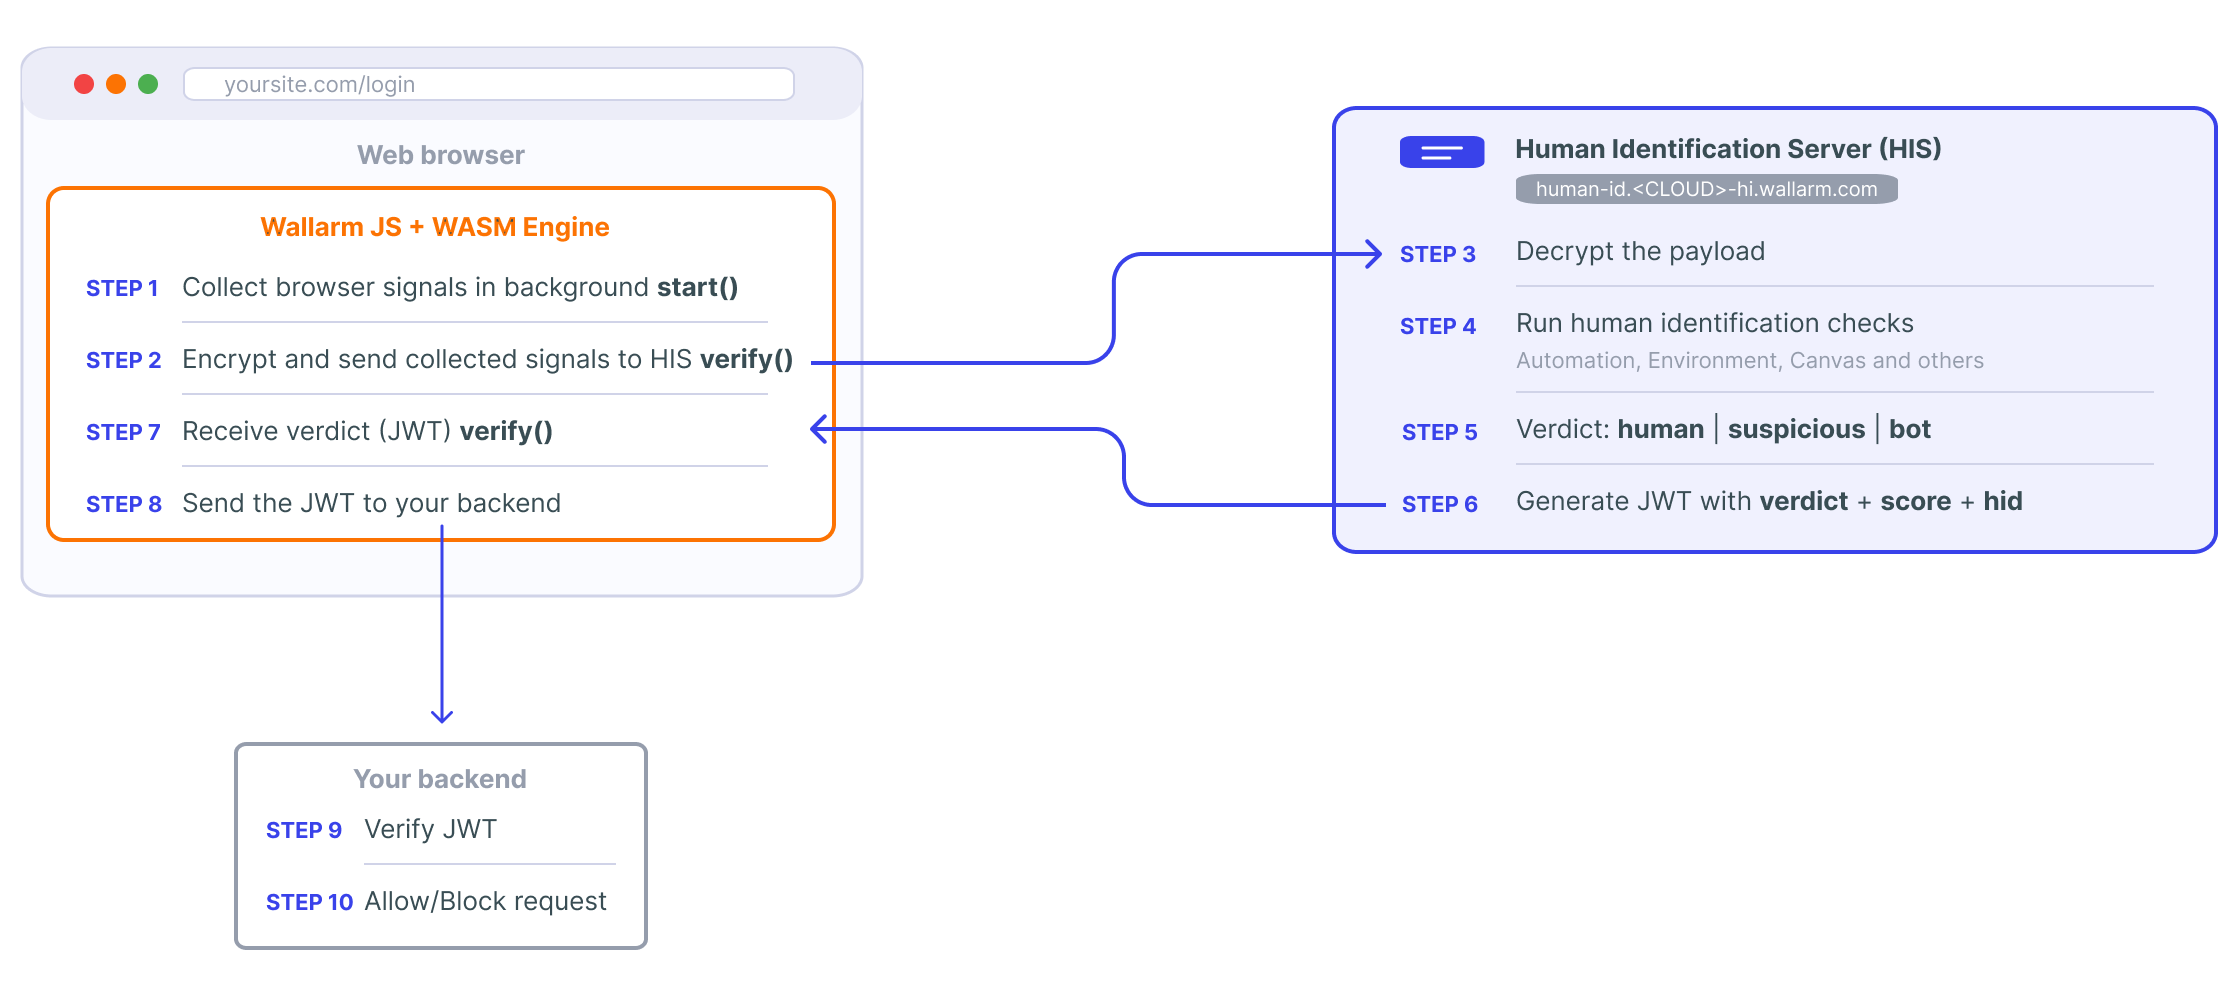
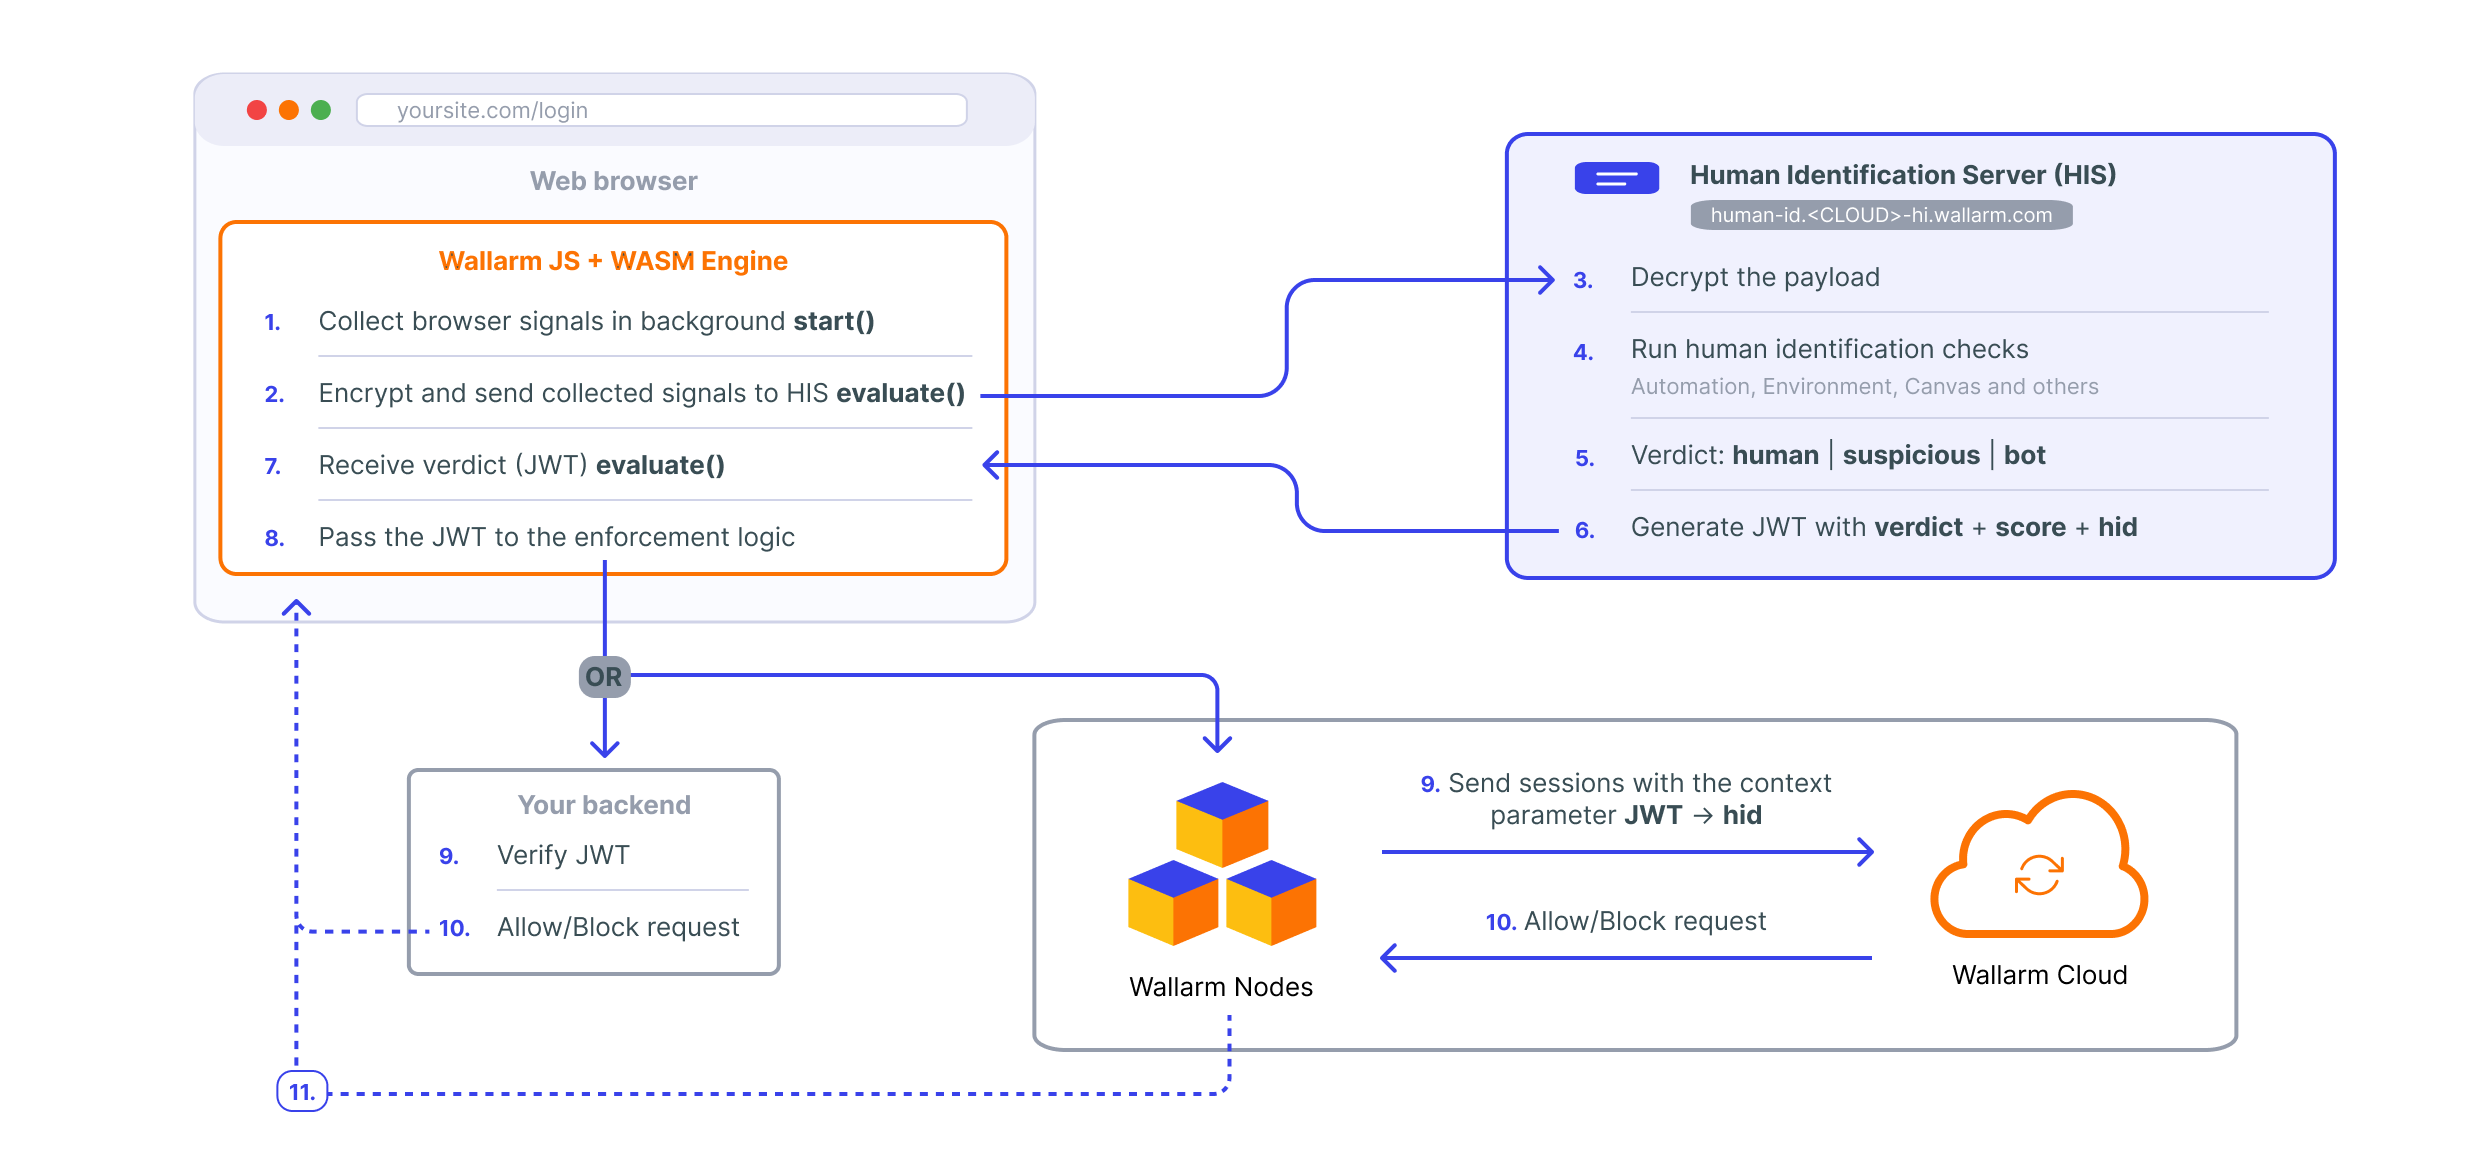
polish the web antibot article

diff --git a/docs/latest/human-identity/web-antibot.md b/docs/latest/human-identity/web-antibot.md
@@ -1,12 +1,12 @@
 # Client‑Side Human Identification for Web
 
-**Client‑Side Human Identification by Wallarm** verifies that each request to your web application originates from a real browser operated by a human.
+**Human Identity by Wallarm** is a client-side service that verifies whether requests to your applications come from real users or automated tools. It covers web and mobile platforms — this article describes the **Web Antibot** component.
 
 ## Overview
 
-Human Identity is an agent-based (client-side JS) solution that detects and blocks automated behavior in web browsers. It verifies the browser environment at the moment of a user action and provides a signed verdict (`human`, `suspicious`, or `bot`).
+Web Antibot is a JavaScript-based agent that detects and blocks automated behavior in browsers. It verifies the browser environment at the moment of a user action and provides a signed verdict (`human`, `suspicious`, or `bot`).
 
-Depending on your setup, the verdict can be enforced by a Wallarm Node or by your own backend logic.
+Depending on your setup, the verdict can be enforced by Wallarm's modules or by your own backend logic.
 
 ## Where human identification adds value
 
@@ -35,7 +35,7 @@ Human Identity solves these problems by verifying the browser execution environm
 
 At a high level: a JavaScript library collects browser signals, the Human Identification Server (hosted and managed by Wallarm) evaluates them and returns a signed JWT with a verdict. The verdict is then enforced — either by Wallarm's modules or by your own backend logic.
 
-<!-- ![How client‑side human identification works](../images/human-identity/human-identity-web.png) -->
+![How client‑side human identification works](../images/human-identity/human-identity-web.png)
 
 ### Step-by-step flow
 
@@ -51,12 +51,27 @@ At a high level: a JavaScript library collects browser signals, the Human Identi
 1. **Token issuance**
    The result is returned as a signed JWT containing the verdict, score, and a stable device identifier (`hid`).
 
-1. **Submit & enforce**
-   Your frontend attaches the JWT to the request. The verdict can be enforced by Wallarm modules (brute force protection, API Abuse Prevention, session denylist — all scoped by the `hid` session parameter) or by your own backend logic.
+1. **Enforce**
+   How you enforce the verdict depends on your setup. If you use a Wallarm Node inline, store the JWT in a cookie and configure `hid` as a [session context parameter](../api-sessions/overview.md) in Wallarm Console — Wallarm's modules handle the rest.
+   
+    If you use your own backend, attach the JWT to the request and verify it server-side.
+
+### Library functions
+
+The `engine.js` library provides 2 functions used in the flow above:
+
+| Function | What it does |
+| --- | --- |
+| `start(url, appID, options)` | Initializes the WASM engine, loads bytecode, and begins collecting browser signals in the background. Call it when the page loads. |
+| `evaluate()` | Finalizes signal collection, sends the data to the Human Identification Server, and returns a JWT with the verdict (or `null` on failure). Call it when the user triggers the protected action, e.g. "Login". |
+
+After `evaluate()` completes, the engine stops. For each new protected action, call `start()` and `evaluate()` again.
+
+Each `evaluate()` call produces a new JWT (new `iat`, `exp`, potentially new `score`). If the user reloads the page, the entire cycle restarts: `start()` collects signals again, `evaluate()` returns a fresh token.
 
 ### Token
 
-The Human Identity service does not enforce decisions — it returns a **signed JWT**. The JWT contains the following claims:
+The Human Identity service returns a **signed JWT**. The JWT contains the following claims:
 
 | Claim | Type | Description |
 | --- | --- | --- |
@@ -64,15 +79,15 @@ The Human Identity service does not enforce decisions — it returns a **signed 
 | `score` | float | Numeric risk score (0.0 = definitely human, higher = more suspicious). |
 | `hid` | string | Device fingerprint — stable across visits for the same browser/device. |
 | `monitoring` | boolean | Present when the solution is in monitoring mode (tokens issued even for bots). |
-| `iat`, `exp` | timestamp | Token issue time and expiration. Tokens are short‑lived (~1 minute for login use case) to prevent relay and replay attacks. |
-
-Enforcement is handled separately: by Wallarm modules (when the [`hid` is configured as a session context parameter](#step-3-enforce-the-verdict)) or by your own backend.
+| `iat`, `exp` | timestamp | Token issue time and expiration. Tokens are short‑lived (~1 minute) to prevent relay and replay attacks. |
 
 ## Setup
 
 ### Step 1: Get your credentials
 
-Contact [[email redacted]](mailto:[email redacted]?subject=Human%20Identity%20for%20Web%20inquiry) to enable Human Identity. The Wallarm team will provision a server instance for your account and provide:
+Contact [[email redacted]](mailto:[email redacted]?subject=Human%20Identity%20for%20Web%20inquiry) to enable Human Identity. Provide the domain(s) where you plan to integrate the solution (e.g., `login.example.com`).
+
+The Wallarm team will provision a server instance for your account and provide:
 
 * **Human Identification Server (HID) endpoint** — the base URL depends on the chosen [Wallarm Cloud](../about-wallarm/overview/#cloud) region:
 
@@ -84,12 +99,7 @@ You will use these credentials when initializing the Wallarm JavaScript library.
 
 ### Step 2: Integrate the library and protect an action
 
-Add the `engine.js` library to your page and wire it to the action you want to protect.
-
-The library exports two main functions:
-
-* `start(url, appID, options)` — initializes the WASM engine and begins collecting browser signals in the background. Call it when the page loads. The user sees nothing.
-* `evaluate()` — finalizes signal collection, sends the data to the Human Identification Server, and returns a JWT token with the verdict (or `null` on failure). Call it when the user triggers the protected action (e.g., clicks "Login").
+Add the `engine.js` [library](#library-functions) to your page and wire it to the action you want to protect.
 
 Below are 2 integration examples:
 
@@ -168,11 +178,11 @@ In both examples, the token is sent to your backend along with the login request
 
 ### Step 3: Enforce the verdict
 
-There are two approaches — choose based on your infrastructure:
+There are 2 approaches — choose based on your infrastructure:
 
 === "Wallarm modules"
 
-    If your traffic passes through a [Wallarm Node](../installation/supported-deployment-options.md), you can use the `hid` from the token as a [session context parameter](../api-sessions/overview.md) — enabling enforcement by device fingerprint across Wallarm's modules.
+    If you have a [Wallarm Node](../installation/supported-deployment-options.md) deployed inline — receiving all traffic after the Human Identity script has run — you can use the `hid` from the token as a [session context parameter](../api-sessions/overview.md), enabling enforcement by device fingerprint across Wallarm's modules.
 
     Set up session tracking by `hid`:
 
@@ -195,13 +205,14 @@ There are two approaches — choose based on your infrastructure:
 
         Enable **Group sessions by this key** so that sessions are grouped by device fingerprint rather than by IP alone.
 
-    Once `hid` is configured as a session context parameter, it becomes available across Wallarm's enforcement mechanisms. They can scope enforcement by `hid` — blocking by device fingerprint, not just by IP:
+    Once `hid` is configured as a session context parameter, it becomes available across Wallarm's enforcement mechanisms:
 
     * **Visibility**: in **API Sessions**, filter and inspect sessions grouped by `hid`. This reveals patterns invisible when grouping by IP — for example, the same browser rotating through multiple IPs.
 
         ![hid parameter in API session](../images/api-sessions/hid-parameter-in-session.png)
+    * **Anonymous session tracking**: `hid` identifies the browser before the user logs in. Without it, pre-authentication traffic (e.g., login attempts) has no stable identifier — only IP, which attackers rotate. With `hid` as a grouping key, Wallarm builds sessions from anonymous requests, and all enforcement mechanisms listed below can be applied to these sessions.
     * **Session denylist**: block a specific `hid` session via [Session Denylist](../api-sessions/blocking.md).
-    * **API Abuse Prevention**: [API Abuse Prevention](../api-abuse-prevention/overview.md) analyzes behavioral patterns within sessions and blocks sessions by `hid`. When sessions are grouped by `hid`, the module can detect and block distributed bot campaigns that use a single browser across many IP addresses.
+    * **API Abuse Prevention**: when [API Abuse Prevention](../api-abuse-prevention/overview.md) is configured with the **Denylist session** reaction and sessions are grouped by `hid`, the module analyzes behavioral patterns within sessions identified by the device fingerprint. If bot behavior is detected, the session with that `hid` is added to the [Session Denylist](../api-sessions/blocking.md) — blocking all subsequent requests from the same browser, regardless of IP rotation.
     * **Brute force protection**: configure a [Brute Force Protection](../admin-en/configuration-guides/protecting-against-bruteforce.md) rule that limits login attempts per `hid`. If the same browser fingerprint exceeds the threshold, the session is blocked.
 
 === "Your own backend"
@@ -227,13 +238,13 @@ There are two approaches — choose based on your infrastructure:
 
 **Verify that tokens are issued correctly:**
 
-1. Open your protected page in a browser and complete the protected action (e.g., login).
+1. Open your protected page in a browser and trigger the protected action.
 1. In the browser DevTools (Network tab), verify that the `evaluate` request succeeds and returns a JWT.
-1. Check that the JWT is attached to your login request.
+1. Check that the JWT is attached to your request (as a hidden field, JSON property, or cookie — depending on your integration).
 1. Test with a headless browser or automation tool — the `verdict` in the returned token should be `"bot"`.
 
 **Verify that enforcement works:**
 
-* **Wallarm Node**: check that the `hid` cookie appears in requests passing through the Node. In Wallarm Console → **API Sessions**, confirm that sessions are grouped by `hid`. Then trigger a blocking rule (e.g., exceed the brute force threshold) and verify that the session is added to the Session Denylist and subsequent requests are blocked.
+* **Wallarm modules**: check that the `hid` cookie appears in requests passing through the Node. In Wallarm Console → **API Sessions**, confirm that sessions are grouped by `hid`. Then trigger a configured enforcement rule and verify that the session is added to the Session Denylist and subsequent requests are blocked.
 * **Your own backend**: send a request with a `"bot"` verdict token and confirm your backend rejects it. Send a request with a `"human"` verdict token and confirm it passes.
 